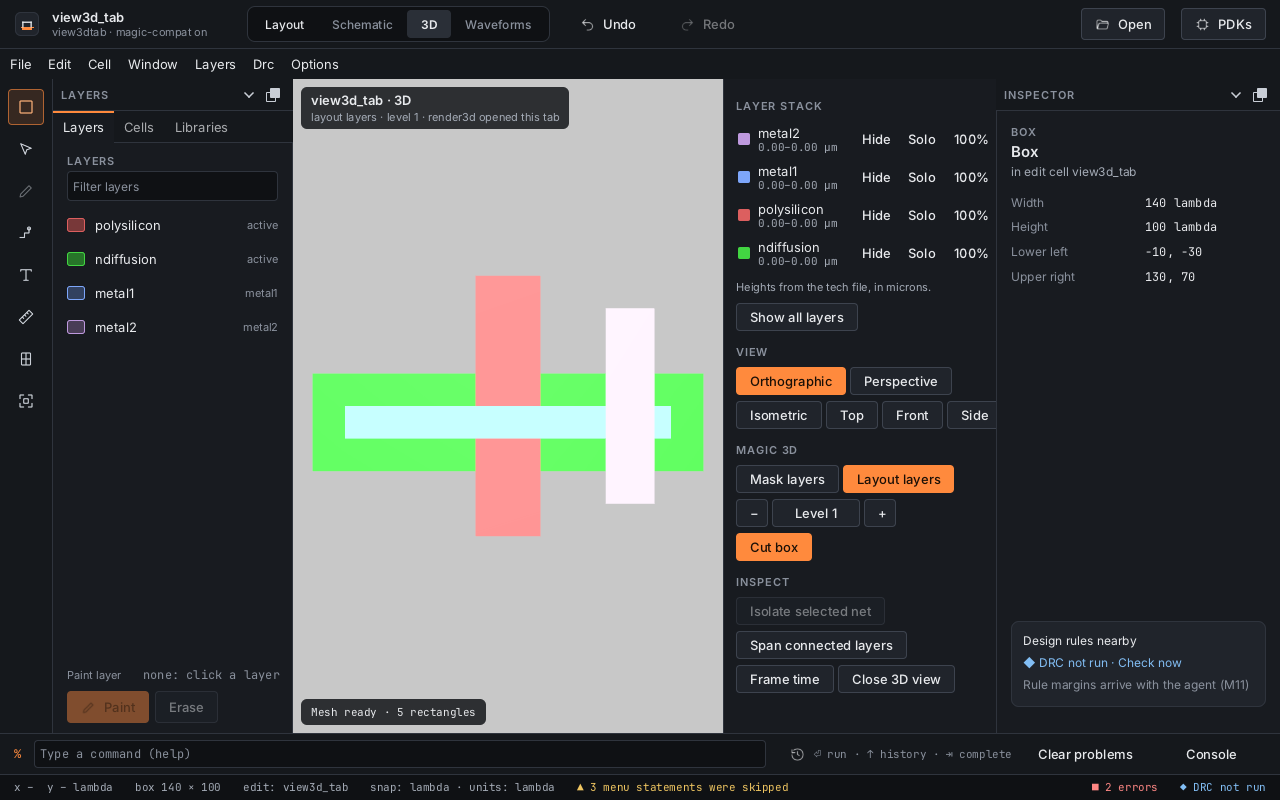
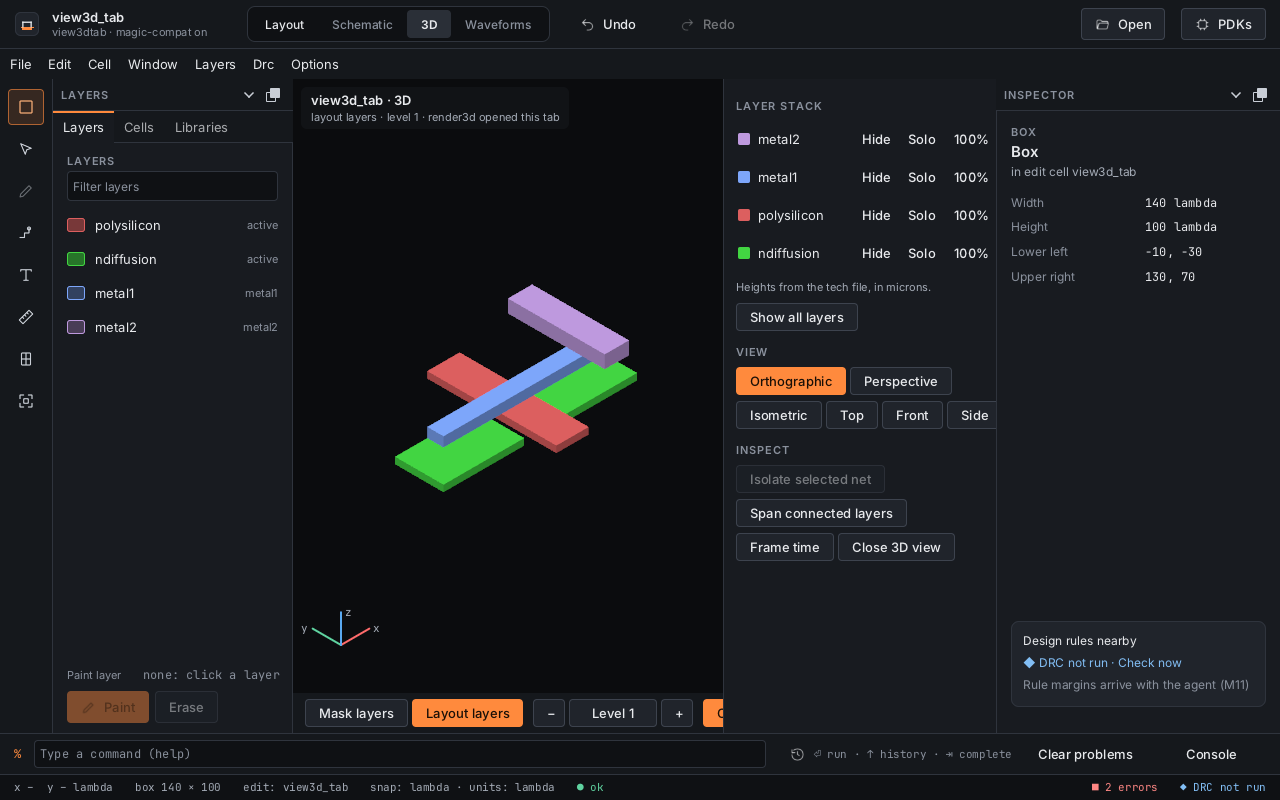
docs: round-4 Linux 3D tab captures from CI (X11, Wayland), toolbar clipping noted

Changed region(s): [[0.2188, 0.0938, 0.75, 0.9375], [0.5938, 0.1562, 0.6562, 0.3438], [0.4688, 0.9688, 0.625, 1.0]]

diff --git a/docs/design/m10-3d-ui-conformance.md b/docs/design/m10-3d-ui-conformance.md
@@ -26,6 +26,8 @@ Round 3 continuation (SHELL, 2026-11-22): the window tests gained "3D tab opened
 
 Linux captures (PR #90 CI run 45058228743, leg `linux-x64-clang-latest`, ubuntu-24.04, Mesa lavapipe, artifact `view3d-captures-linux-x64-clang-latest`): the same test under X11 (Xvfb) [view3d-tab-linux-x11.png](../images/ui/view3d-tab-linux-x11.png) and Wayland (headless Weston) [view3d-tab-linux-wayland.png](../images/ui/view3d-tab-linux-wayland.png), 1280 × 800: the same tab, panel, top view and "Mesh ready · 5 rectangles" as the macOS capture (the menu bar is in the window on Linux). The window check's frames under X11: [640 × 400](../images/ui/view3d-check-linux-x11-640x400.png), [900 × 300](../images/ui/view3d-check-linux-x11-900x300.png) (white top face at the centre, black corners); both window tests pass under X11 and Wayland on that leg, and the `[cap:view-3d]` target and renderer tests pass in `linux-x64 GPU readback (lavapipe)` of the same run.
 
+Round 4 Linux captures (PR #102 CI run 45420881227, leg `linux-x64-clang-latest`, same artifact; the two images above are replaced): the window test under X11 and Wayland now shows the board look on `view3d_tab.tech` (dark canvas, flat per-face shading, framed isometric view from above, the axis gizmo with z up, the bottom toolbar strip); that technology has no contacts, so nothing is ghosted there (by design). At 1280 × 800 the toolbar strip is wider than the view and its last control, Cut box, and the mesh status are clipped at the side panel: a gap to fix with the floating toolbar (open item).
+
 Round 4 (SHELL, branch `m10-3d-round4-shell`, 2026-11-24; Q-MISC-84, Q-MISC-85): the user's screenshot of `sky130_fd_sc_hd__dfxtp_1` did not look like the board. Before captures (same build at the origin/main base, kept out of the repository) showed a light grey background, washed-out faces fading to white, an isometric `view` with the stack upside down and the cell far larger than the window, and Magic's top-down view on opening. After captures, macOS (Apple M3 Pro, MoltenVK, debug build, 1600 × 989 logical, `hefesto -T sky130A.tech <cell>.mag --run 'magic::render3d; .render.magic cif' --capture …`, with Magic's `mos` styles in a CAD_ROOT), with RENDER's round-4 renderer merged: [view3d-dfxtp1-macos.png](../images/ui/view3d-dfxtp1-macos.png) (magic-compat ON), [view3d-dfxtp1-compat-off-macos.png](../images/ui/view3d-dfxtp1-compat-off-macos.png) (`setting set magic-compat off` first: the same picture), [view3d-inverter-macos.png](../images/ui/view3d-inverter-macos.png) (`sky130_fd_sc_hd__inv_1`, standing in for the board's `inverter_demo`, which the repository does not have). Rows in "Round 4 board look" below. Linux captures of the new look come from the CI desktop legs (open).
 
 ## Round 4 board look (Q-MISC-84, Q-MISC-85; tasks 16.6-16.8, 16.10)
@@ -42,7 +44,7 @@ Compared with the board render `docs/images/ui/view3d.png` and the three after c
 | Camera default | The tab opens on the isometric preset framed to the drawn layers (`view`, `scroll`, `zoom` run on the window's path, so they report it), with s_z 1 so the heights are in proportion. | done (macOS) |
 | Axis gizmo | x (red), y (green), z (blue) arrows at the bottom left from the view's rotation, z pointing up in the isometric view, as the board. | done (macOS) |
 | Presets Isometric / Top / Front / Side | Each runs `view` and then `scroll`/`zoom` from `frame_view`, so the cell fits the view. In the side panel's "View" section, below a long layer list (sky130A has 349 rows), not at the bottom of a left aside as on the board. | partial: placement differs; not in the captures' visible area |
-| Bottom view toolbar | Mask layers / Layout layers, Level − n +, Cut box and the mesh status with a state dot, in a strip under the view. The board floats it over the view; Raven's `Overlay` wrapper (`raven_ui`) only places children at the top. | partial: strip below the view, not over it |
+| Bottom view toolbar | Mask layers / Layout layers, Level − n +, Cut box and the mesh status with a state dot, in a strip under the view. The board floats it over the view; Raven's `Overlay` wrapper (`raven_ui`) only places children at the top. | partial: strip below the view, not over it; clipped at 1280 × 800 on Linux (Cut box and status cut off) |
 
 ## Board review (DESIGN, task 7.1)
 
